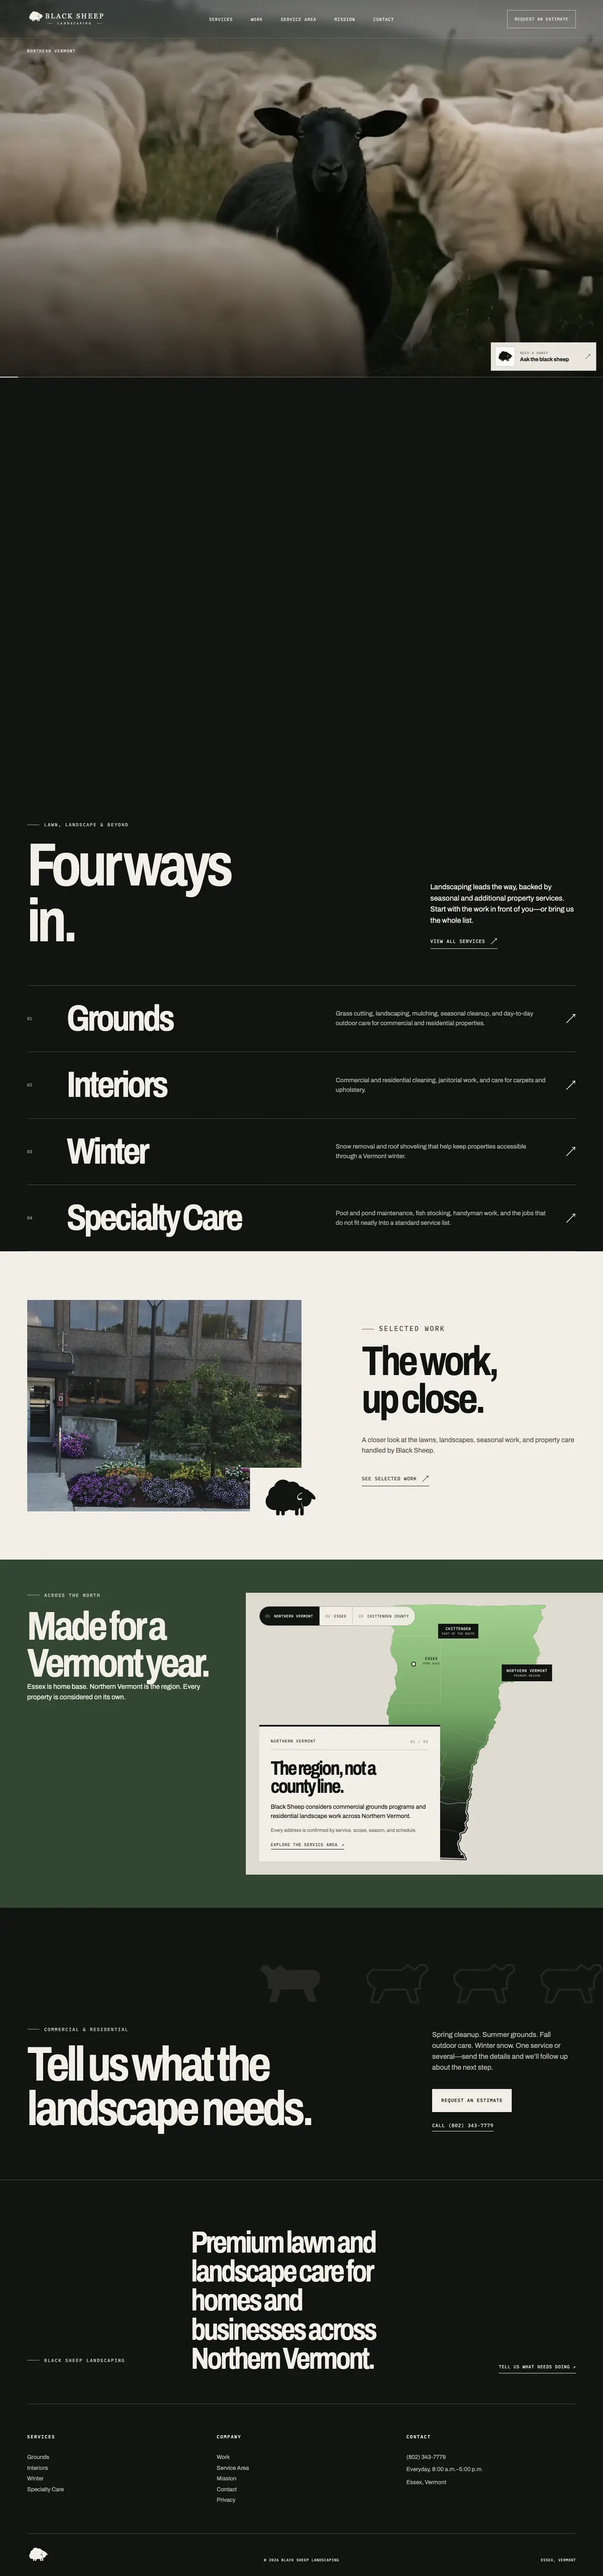
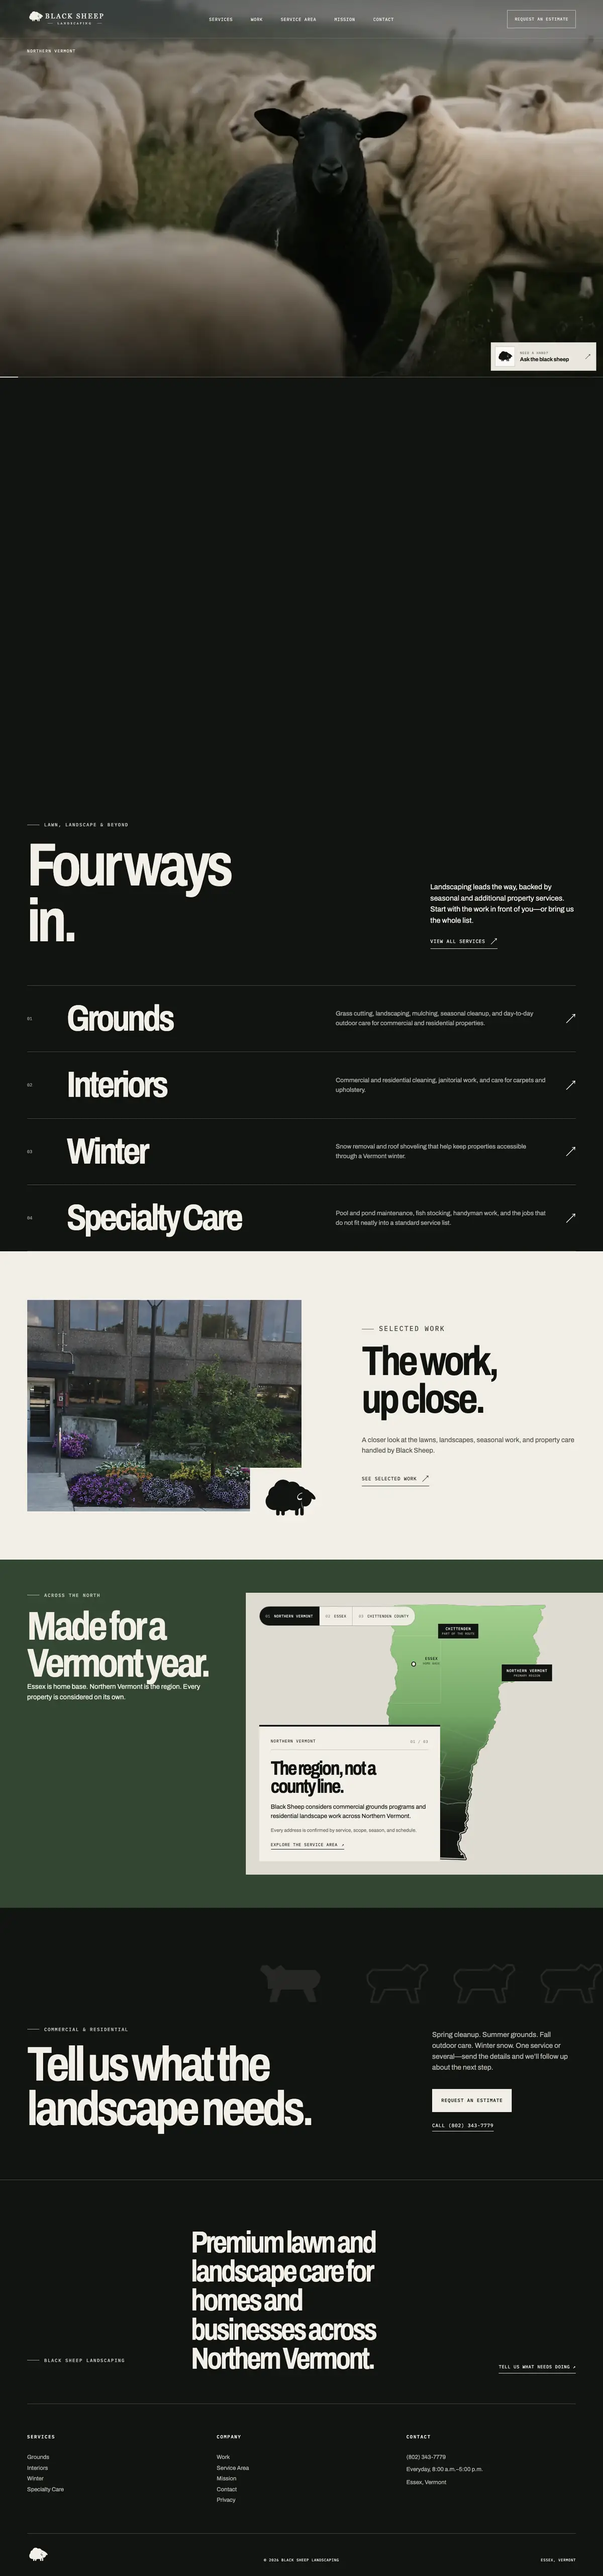
Point Black Sheep at blacksheepvt.com
They have their own domain now, so the showcase and the Essex service-area
page link to it instead of the vercel.app preview, and the laptop frame
shows blacksheepvt.com in its address bar. Screenshots re-shot from the
live domain.

diff --git a/src/lib/service-areas.ts b/src/lib/service-areas.ts
@@ -99,7 +99,7 @@ export const SERVICE_AREAS: ServiceArea[] = [
     ],
     proof: {
       text: "We built and run the site for Black Sheep Landscaping, whose home base is Essex.",
-      href: "https://black-sheep-property-mgmt.vercel.app",
+      href: "https://blacksheepvt.com",
     },
     // Wikimedia Commons, "Essex Junction, Vermont Amtrak.jpg" - public domain.
     photo: {

diff --git a/src/lib/marketing/work.ts b/src/lib/marketing/work.ts
@@ -63,8 +63,8 @@ export const WORK: Work[] = [
     kind: "client",
     what: "Landscaping and seasonal property care",
     where: "Essex",
-    url: "https://black-sheep-property-mgmt.vercel.app",
-    host: "black-sheep-property-mgmt.vercel.app",
+    url: "https://blacksheepvt.com",
+    host: "blacksheepvt.com",
   },
   {
     slug: "vsi",
